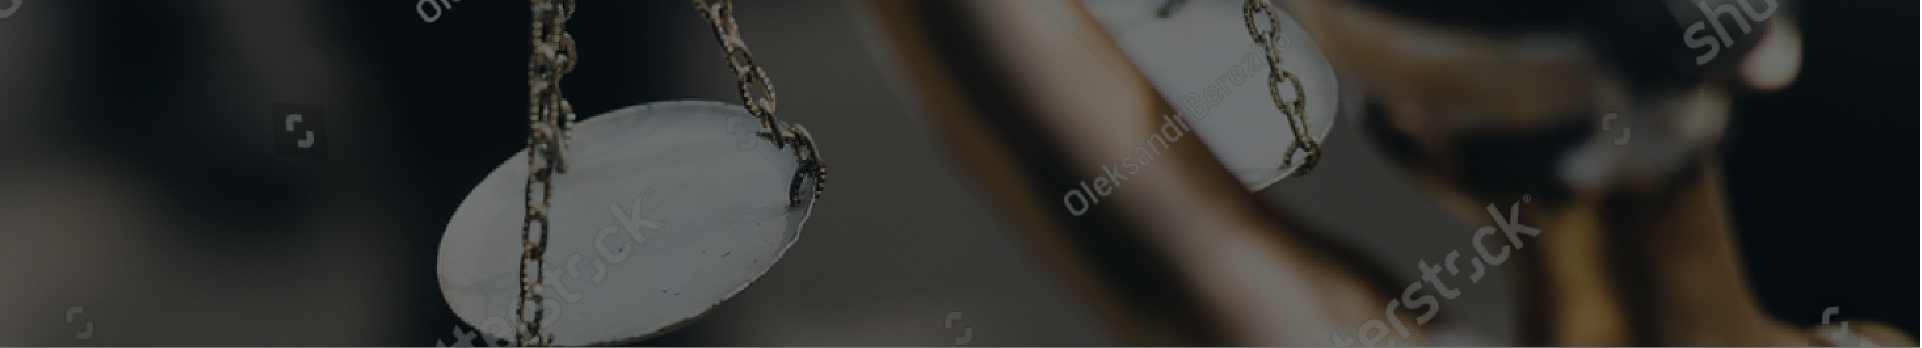
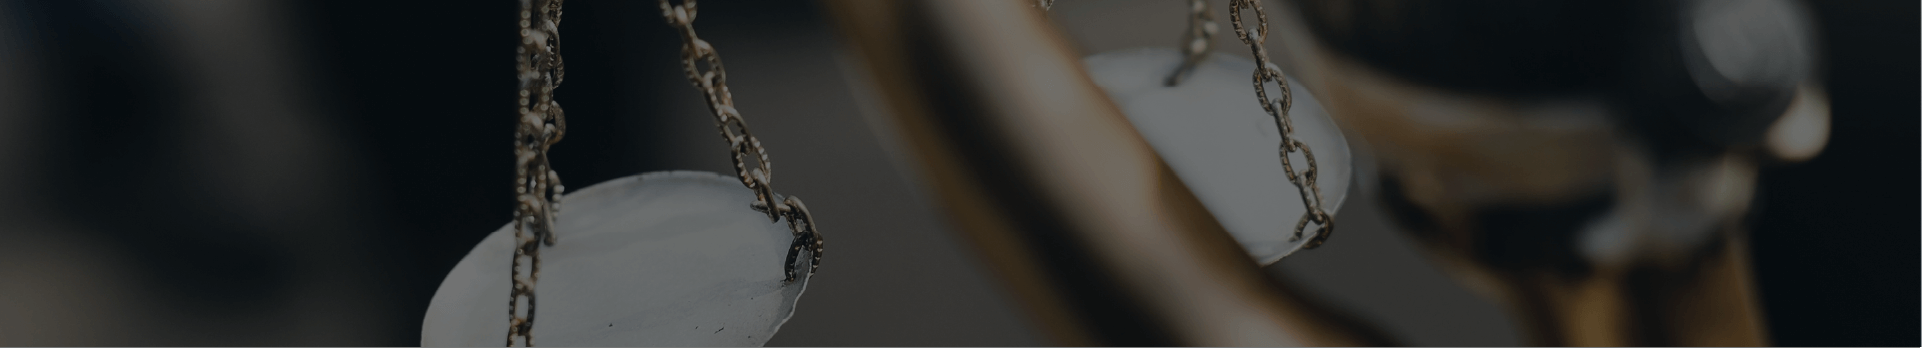
updates

diff --git a/1_DistributorToolkit.html b/1_DistributorToolkit.html
@@ -190,7 +190,7 @@
 								<div class="swiper-slide">
 									<div class="banner__inner">
 										<div class="banner__background-media banner__background_image"
-											style="background-image:url('./assets/Banner_Home-100.jpg')">
+											style="background-image:url('./assets/Banner_Home.png')">
 											<span style="display:none"></span>
 										</div>
 										<div class="wrapper">
@@ -248,18 +248,18 @@
 													<div class="break-column"></div> <!-- break -->
 													<div class="popup custom-box-shadow">
 														<ul class="lang-list">
-															<li onclick="setLanguage('ar')" -transl->Arabic</li>
-															<li onclick="setLanguage('pt-BR')" -transl->Brazilian Portuguese</li>
-															<li onclick="setLanguage('zh-CN')" -transl->Chinese (Simplified)</li>
-															<li onclick="setLanguage('nl')" -transl->Dutch</li>
-															<li onclick="setLanguage('en')" class="selected" -transl->English</li>
-															<li onclick="setLanguage('fr')" -transl->French (European)</li>
-															<li onclick="setLanguage('de')" -transl->German</li>
-															<li onclick="setLanguage('ja')" -transl->Japanese</li>
-															<li onclick="setLanguage('ru')" -transl->Russian</li>
-															<li onclick="setLanguage('es-ES')" -transl->Spanish (European)</li>
-															<li onclick="setLanguage('es-LA')" -transl->Spanish (Latin American) </li>
-															<li onclick="setLanguage('th')" -transl->Thai</li>
+															<li id="ar" onclick="setLanguage('ar')" -transl->Arabic</li>
+															<li id="pt-BR" onclick="setLanguage('pt-BR')" -transl->Brazilian Portuguese</li>
+															<li id="zh-CN" onclick="setLanguage('zh-CN')" -transl->Chinese (Simplified)</li>
+															<li id="nl" onclick="setLanguage('nl')" -transl->Dutch</li>
+															<li id="en" onclick="setLanguage('en')" class="selected" -transl->English</li>
+															<li id="fr" onclick="setLanguage('fr')" -transl->French (European)</li>
+															<li id="de" onclick="setLanguage('de')" -transl->German</li>
+															<li id="ja" onclick="setLanguage('ja')" -transl->Japanese</li>
+															<li id="ru" onclick="setLanguage('ru')" -transl->Russian</li>
+															<li id="es-ES" onclick="setLanguage('es-ES')" -transl->Spanish (European)</li>
+															<li id="es-LA" onclick="setLanguage('es-LA')" -transl->Spanish (Latin American) </li>
+															<li id="th" onclick="setLanguage('th')" -transl->Thai</li>
 														</ul>
 													</div>
 												</div>
@@ -336,7 +336,7 @@
 							<div class="section-cards">
 								<div class="card card-img-left" data-layout="1-col-simple">
 									<img alt="Card image cap" class="card-img-top float-left"
-										src="./assets/Home_Distrib_img-100.jpg">
+										src="./assets/Home_Distrib_img.png">
 									<div class="card-body">
 										<h3 -transl->Distributor Training</h3>
 										<p class="card-text" -transl->What is corruption and how can my business avoid it? In
@@ -352,7 +352,7 @@
 								</div>
 								<div class="card card-img-left" data-layout="1-col-simple">
 									<img alt="Card image cap" class="card-img-top float-left"
-										src="./assets/Home_CompTools_Img-100.jpg">
+										src="./assets/Home_CompTools_Img.png">
 									<div class="card-body">
 										<div class="h2-5-center" -transl->Compliance Tools for Your Business</div>
 										<!-- <p class="card-text">How do I establish a compliance program? What do new hires
@@ -684,12 +684,14 @@
 			$(".lang-list li").each(function (index) {
 				$(this).removeClass('selected');
 			});
-
+console.log(this.id)
 			$(this).addClass('selected');
 			//langItem[0].innerHTML = "newTitle"
 			$('.popup').hide();
 			$(".lang-btn").removeClass('active');
 			$(".lang-btn img").attr('src', './assets/Home_LangArrow_UP.png')
+
+			setLanguage(this.id);
 		})
 
 
@@ -767,9 +769,11 @@ function replaceNewLangText() {
 var language; 
 var langData;
 var newLangObject
+
+
 function getLanguage() {
 	
-(localStorage.getItem('language') == null) ? setLanguage('en') : false;
+//(localStorage.getItem('language') == null) ? setLanguage('en') : false;
 
 langData = $.ajax({ 
 url:  './lang/' +  localStorage.getItem('language') + '.json', 
@@ -784,35 +788,86 @@ success: function (lang) {
 
 }
 
-function langChange() {
-	
-	
-	setLanguage('en')
-}
-
 
 
 function setLanguage(lang) {
 	console.log(lang)
-localStorage.setItem('language', lang);
+	localStorage.setItem('language', lang);
 getLanguage();
 replaceNewLangText();
 //window.location.reload(true)
 }
 
 
-function setText() {
+window.addEventListener("load", initLangCheck);
+//window.addEventListener("load", getLanguage);
 
-//$('#title').text(lang_en.transl2);
-//$('#titleNote').text(lang_en.translID1);
+function initLangCheck() {
+	var trans = {};
 
-//window.location.reload(true)
+	trans.versions = [
+		'ar', //Arabic
+		'pt-BR', //Brazilian Portuguese
+		'zh-CN', //Chinese (Simplified)
+		'nl', //Dutch
+		'en', //English
+		'fr', //French (European)
+		'de', //German
+		'ja', //Japanese
+		'ru', //Russian
+		'es-ES', //Spanish (European)
+		'es-LA', //Spanish (Latin American)
+		'th' //Thai
+	]
+
+	var defaultLang = window.navigator.userLanguage || window.navigator.language;
+	var langSet;
+	//alert(defaultLang)
+
+	for(var i = 0; i < trans.versions.length; i++) {
+		//console.log(trans.versions[i])
+		if (!langSet) {
+			console.log(defaultLang == currLang)
+			var currLang = trans.versions[i]
+		if(defaultLang == currLang) {
+			
+			console.log("GERMAN")
+			localStorage.setItem('language', currLang);
+			getLanguage();
+			replaceNewLangText();
+
+			$(".lang-list li").each(function (index) {
+				$(this).removeClass('selected');
+			});
+			$("#" + currLang).addClass('selected');
+			
+			langSet = true;
+		} else if (!defaultLang) {
+			localStorage.setItem('language', 'en');
+			getLanguage();
+			replaceNewLangText();
+			langSet = true;
+		}
+	}
+
+	}
+	
 }
 
-//console.log(lang_en.transl2)
-setText()
-window.addEventListener("load", getlangItems);
-//window.addEventListener("load", getLanguage);
+
+
+// var versionList = ''
+// if (trans.versions && !(trans.versions[0] == f.clang && trans.versions.length == 1) ) {
+// 	versionList = '<p class="noprint">'
+// 	for (lang=0; lang<trans.versions.length; lang++) {
+// 		if (f.clang != trans.versions[lang]) {
+// 			versionList += '<span title="'+s.currLang[trans.versions[lang]]+'"><a href="#" onclick="stickyConneg(\''+f.filename+'\',\''+f.clang+'\',\''+trans.versions[lang]+'\'); return false;" lang="'+trans.versions[lang]+
+// 			'" translate="no" dir="auto">'+g.nativeText[trans.versions[lang]]+'</a></span>'+s.rlm+'&nbsp; ';
+// 			}
+// 		}
+// 	versionList += '</p>';
+// 	}
+
 	</script>
 </body>
 

diff --git a/2_DistributorTraining.html b/2_DistributorTraining.html
@@ -160,7 +160,7 @@
 								<div class="swiper-slide">
 									<div class="banner__inner">
 										<div class="banner__background-media banner__background_image"
-											style="background-image:url('./assets/Banner_DistribTrain-100.jpg')">
+											style="background-image:url('./assets/Banner_DistribTrain.png')">
 											<span style="display:none"></span>
 										</div>
 										<div class="wrapper">

diff --git a/3_ComplianceToolsForYourBusiness.html b/3_ComplianceToolsForYourBusiness.html
@@ -160,7 +160,7 @@
 								<div class="swiper-slide">
 									<div class="banner__inner">
 										<div class="banner__background-media banner__background_image"
-											style="background-image:url('./assets/Banner_CompTools-100.jpg')">
+											style="background-image:url('./assets/Banner_CompTools.png')">
 											<span style="display:none"></span>
 										</div>
 										<div class="wrapper">

diff --git a/5_AskQuestionsAndReportConcerns.html b/5_AskQuestionsAndReportConcerns.html
@@ -160,7 +160,7 @@
 								<div class="swiper-slide">
 									<div class="banner__inner">
 										<div class="banner__background-media banner__background_image"
-											style="background-image:url('./assets/Banner_AskQst-100.jpg')">
+											style="background-image:url('./assets/Banner_AskQst.png')">
 											<span style="display:none"></span>
 										</div>
 										<div class="wrapper">

diff --git a/4_LawsGuidelinesValuesAndPolicies.html b/4_LawsGuidelinesValuesAndPolicies.html
@@ -160,7 +160,7 @@
 								<div class="swiper-slide">
 									<div class="banner__inner">
 										<div class="banner__background-media banner__background_image"
-											style="background-image:url('./assets/Banner_Laws-100.jpg')">
+											style="background-image:url('./assets/Banner_Laws.png')">
 											<span style="display:none"></span>
 										</div>
 										<div class="wrapper">
